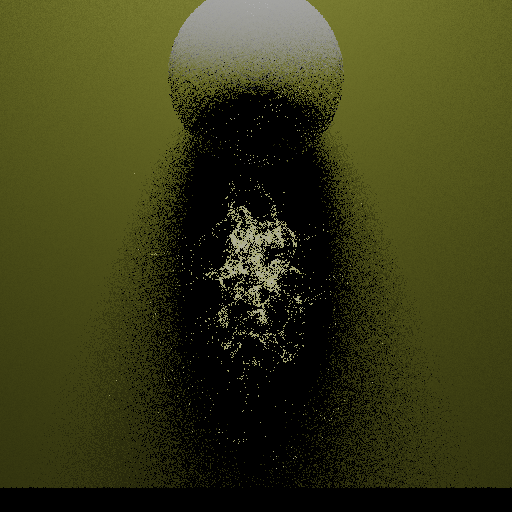
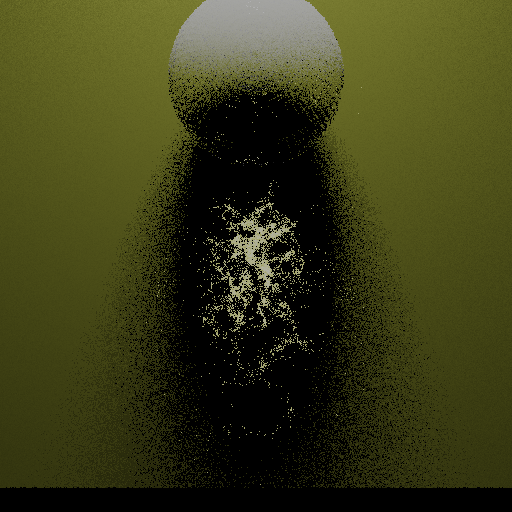
fixed remove

Changed region(s): [[0.25, 0.0938, 0.8125, 0.9688], [0.4062, 0.375, 0.5938, 0.7188], [0.4688, 0.7188, 0.5, 0.75]]

diff --git a/photon.h b/photon.h
@@ -10,26 +10,41 @@ using namespace std;
 struct Photon {
     Eigen::Vector3f lastHit;
     Eigen::Vector3f origin;        // photon position
+
+    int index = 0;
+
     Eigen::Vector3f power;      // photon power (uncompressed)
     int divide_axis;        // splitting plane for kd-tree
     Eigen::Vector3f dir;    // incoming direction
 
     Photon(){;}
 
-    Photon(Eigen::Vector3f lastHit, Eigen::Vector3f origin, Eigen::Vector3f power = Eigen::Vector3f::Zero(), int divide_axis = 0, Eigen::Vector3f dir = Eigen::Vector3f::Zero()) {
+    Photon(Eigen::Vector3f lastHit, Eigen::Vector3f origin, int index = 0, Eigen::Vector3f power = Eigen::Vector3f::Zero(), int divide_axis = 0, Eigen::Vector3f dir = Eigen::Vector3f::Zero()) {
         this->lastHit = lastHit;
         this->origin = origin;
+        this->index = index;
         this->power = power;
         this->divide_axis = divide_axis;
         this->dir = dir;
+    }
+
+    Photon(Photon const &a) {
+        this->lastHit = a.lastHit;
+        this->origin = a.origin;
+        this->index = a.index;
+        this->power = a.power;
+        this->divide_axis = a.divide_axis;
+        this->dir = a.dir;
     }
 };
 
 struct photon_hash{
     size_t operator()(const Photon& p) const {
         // Combine the hashes of individual attributes using XOR and bit shifting
-        std::hash<float> float_hash;
-        return float_hash(p.origin.x()) ^ (float_hash(p.origin.y()) << 1) ^ (float_hash(p.origin.z()) << 2);
+//        std::hash<float> float_hash;
+        std::hash<int> int_hash;
+        return int_hash((int)p.index);
+//        return float_hash(p.origin.x()) ^ (float_hash(p.origin.y()) << 1) ^ (float_hash(p.origin.z()) << 2);
      }
 };
 
@@ -69,7 +84,7 @@ public:
 
 inline bool operator==(const Photon& a, const Photon& b)
 {
-    return a.origin == b.origin;
+    return a.index == b.index;
 }
 
 class PhotonMap

diff --git a/stylized/stylizedcaustics.cpp b/stylized/stylizedcaustics.cpp
@@ -7,6 +7,7 @@
 extern bool useGreedyMethod;
 
 std::random_device rd;
+
 std::mt19937 g;
 using namespace Eigen;
 
@@ -123,7 +124,7 @@ void StylizedCaustics::refine(vector<Vector2f> positions){
     for (const auto& t: targets){
         // convert targets (vector<Vector2f>) to a vector<Photon> (y = 0)
 //        auto t_photon = std::make_shared<Photon>(Vector3f::Zero(), Vector3f(t(0), 0, t(1)), Vector3f::Zero(), 0);
-        Photon t_photon = Photon(Vector3f::Zero(), Vector3f(t(0), 0, t(1)));
+        Photon t_photon = Photon(Vector3f::Zero(), Vector3f(t(0), 0, t(1)), b_index);
 //        B_PhotonMap.store(*t_photon.get());
         B_PhotonMap.store(t_photon);
         B[t_photon] = b_index;
@@ -156,7 +157,7 @@ void StylizedCaustics::refine(vector<Vector2f> positions){
 
     // iteratively choose the max disance from distMaxHeap and store pair
     while (!I.empty()){
-        std::cerr << "\rHeap remaining: "<< I.size() << std::flush;
+        std::cerr << "\rHeap remaining: "<< I.size() << " B_PhotonMap: "<< B_PhotonMap.photons.size() << std::flush;
         photons_dist d = *distMaxHeapSet.begin();
         Photon b = d.p1;
         auto i = d.p2;
@@ -165,6 +166,7 @@ void StylizedCaustics::refine(vector<Vector2f> positions){
 //        assignmentMap[B[b]] = I[i]; //store in assignment map
 
         B_PhotonMap.remove(b);
+//        std::cerr << "\rB_PhotonMap: "<< B_PhotonMap.ph.size() << std::flush;
         I.erase(I.find(i));
 
         // update distMaxHeap: delete the first element w/ i

diff --git a/photon.cpp b/photon.cpp
@@ -174,25 +174,36 @@ void PhotonMap::remove(Photon p){
     int low = 0, high = static_cast<int>(photons.size()) - 1;
     int index = -1;
 
-    while (low <= high){
-        int mid = low + (high - low) / 2;
-
-        if (photons[mid] == p){
-            index = mid;
+    for(int i = 0; i < photons.size(); i++) {
+        if(photons[i] == p) {
+//            std::cout << i << std::endl;
+            photons.erase(photons.begin() + i);
+            update();
             break;
         }
-
-        if (photons[mid].origin[photons[mid].divide_axis] < p.origin[p.divide_axis]){
-            low = mid + 1;
-        } else {
-            high = mid - 1;
-        }
     }
 
-    if (index != -1){
-        photons.erase(photons.begin() + index);
+//    while (low <= high){
+//        int mid = low + (high - low) / 2;
+
+//        if (photons[mid] == p){
+//            index = mid;
+//            break;
+//        }
+
+//        if (photons[mid].origin[photons[mid].divide_axis] < p.origin[photons[mid].divide_axis]){
+//            low = mid + 1;
+//        } else {
+//            high = mid - 1;
+//        }
+//    }
+
+//    if (index != -1){
+//        photons.erase(photons.begin() + index);
 //        update();
-    }
+//    }
+
+//    std::cout << "index: " << index << std::endl;
 }
 
 
